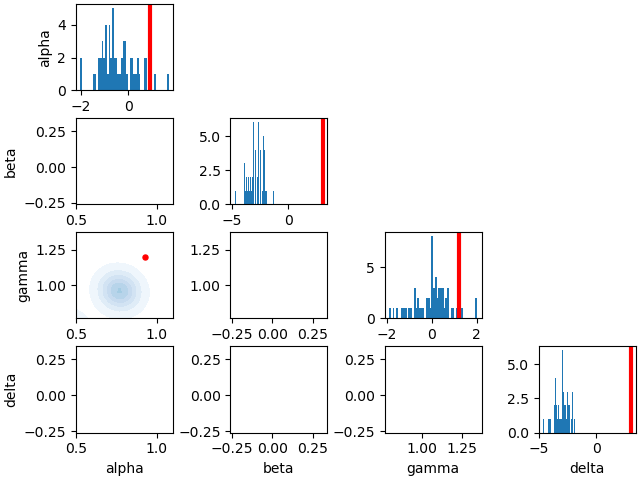
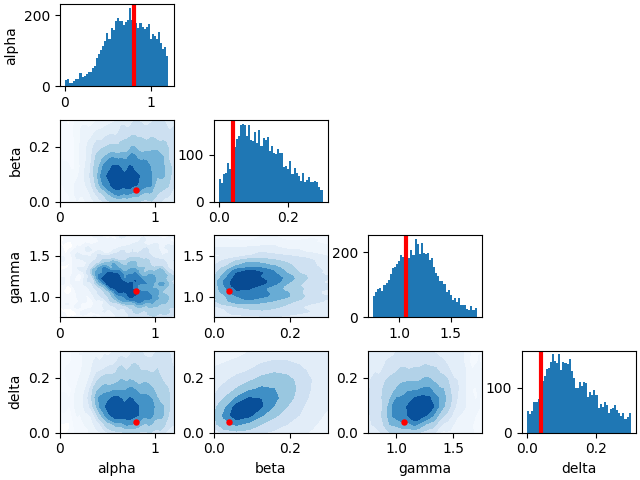
generic commit

diff --git a/scripts/transport/cflow_transport.py b/scripts/transport/cflow_transport.py
@@ -576,7 +576,7 @@ def vl_exp(N=10000, n_iter=10000, Yd=18, normal=True, exp_name='vl_exp'):
                                                          exp_name=exp_name, process_funcs=[],
                                                          cond_model_trainer=comp_cond_kernel_transport,
                                                          idx_dict=idx_dict, skip_idx=skip_idx, plot_idx=[],
-                                                         plt_range=None, n_transports=55)
+                                                         plt_range=None, n_transports=65)
 
     N_test = N #min(10 * N, 15000)
     slice_val = np.asarray([.8, .041, 1.07, .04])
@@ -590,7 +590,7 @@ def vl_exp(N=10000, n_iter=10000, Yd=18, normal=True, exp_name='vl_exp'):
     slice_sample[:,:4] += mu_mean
 
     params_keys = ['alpha', 'beta', 'gamma', 'delta']
-    ranges = {'alpha': [0,1.2], 'beta': [0,.3], 'gamma':[.75,1.75], 'delta':[0,.3]}
+    ranges = {'alpha': [0,1.4], 'beta': [-.1,.33], 'gamma':[.5,1.75], 'delta':[-.1,.33]}
 
     for i, key_i in enumerate(params_keys):
         for j, key_j in enumerate(params_keys):
@@ -625,7 +625,7 @@ def vl_exp(N=10000, n_iter=10000, Yd=18, normal=True, exp_name='vl_exp'):
 
 
 def run():
-    vl_exp(7500, 101, exp_name='vl_exp1')
+    vl_exp(8000, 101, exp_name='vl_exp1')
 
     #ref_gen = sample_normal
     #two_d_exp(ref_gen, mgan2, N=4000, n_iter=101, plt_range=[[-2.5, 2.5], [-1.05, 1.05]],
